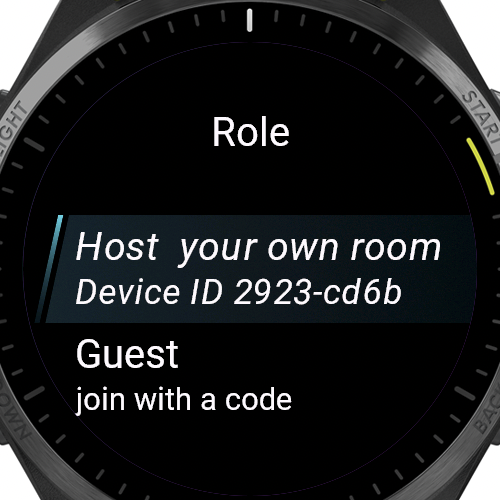
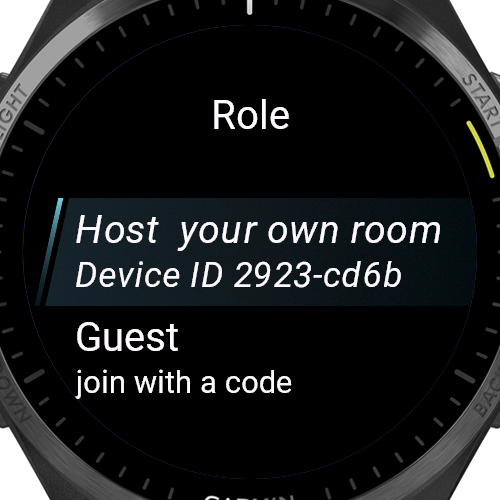
PulseLink manual: pixel-accurate Role crop (center y=457) + realigned overlay

diff --git a/pulselink/manual/index.html b/pulselink/manual/index.html
@@ -160,20 +160,20 @@
 
       <figure class="annotated">
         <div class="stage">
-          <img src="screens/role.png?v=4" alt="Role select screen">
+          <img src="screens/role.png?v=5" alt="Role select screen">
           <svg class="overlay" viewBox="0 0 500 500">
             <!-- Host 状態テキスト "your own room" -->
-            <rect class="box" x="235" y="170" width="175" height="35"/>
-            <line x1="410" y1="187" x2="485" y2="95"/>
-            <text x="320" y="85" data-en="Host state" data-ja="Host の状態">Host state</text>
+            <rect class="box" x="235" y="200" width="180" height="35"/>
+            <line x1="415" y1="217" x2="485" y2="110"/>
+            <text x="320" y="100" data-en="Host state" data-ja="Host の状態">Host state</text>
             <!-- Device ID 行 -->
-            <rect class="box" x="105" y="215" width="305" height="32"/>
-            <line x1="105" y1="231" x2="15" y2="320"/>
-            <text x="5" y="340" data-en="Device ID — needed to purchase" data-ja="Device ID — 購入時に必要">Device ID — needed to purchase</text>
+            <rect class="box" x="100" y="245" width="315" height="33"/>
+            <line x1="100" y1="261" x2="15" y2="345"/>
+            <text x="5" y="365" data-en="Device ID — needed to purchase" data-ja="Device ID — 購入時に必要">Device ID — needed to purchase</text>
             <!-- Guest 行 -->
-            <rect class="box" x="105" y="290" width="305" height="80"/>
-            <line x1="410" y1="330" x2="485" y2="405"/>
-            <text x="340" y="425" data-en="Guest joins free" data-ja="Guest は無料参加">Guest joins free</text>
+            <rect class="box" x="100" y="320" width="315" height="85"/>
+            <line x1="415" y1="360" x2="485" y2="430"/>
+            <text x="330" y="455" data-en="Guest joins free" data-ja="Guest は無料参加">Guest joins free</text>
           </svg>
         </div>
         <figcaption data-en="Role select — appears at every launch." data-ja="Role 選択 — 起動時に毎回表示。">Role select — appears at every launch.</figcaption>
